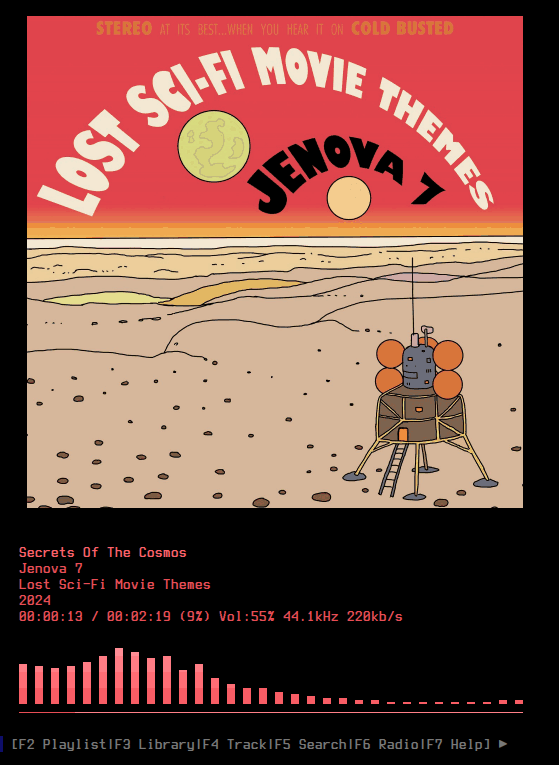
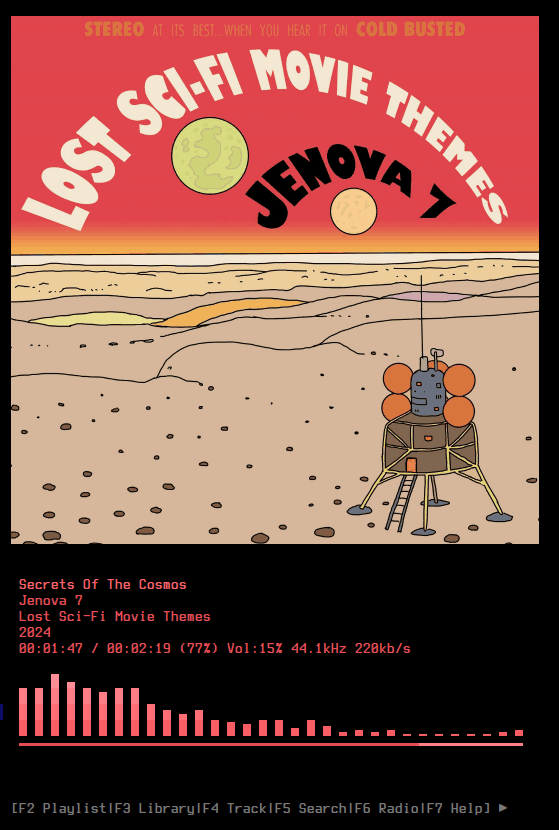
thick line the default

diff --git a/src/settings.c b/src/settings.c
@@ -42,7 +42,7 @@ AppSettings constructAppSettings(KeyValuePair *pairs, int count)
         c_strcpy(settings.visualizerBrailleMode, "0", sizeof(settings.visualizerBrailleMode));
         c_strcpy(settings.tweenFactor, "0.23", sizeof(settings.tweenFactor));
         c_strcpy(settings.tweenFactorFall, "0.13", sizeof(settings.tweenFactor));
-        c_strcpy(settings.progressBarType, "1", sizeof(settings.progressBarType));
+        c_strcpy(settings.progressBarType, "2", sizeof(settings.progressBarType));
 #ifdef __APPLE__
         c_strcpy(settings.visualizerEnabled, "0", sizeof(settings.visualizerEnabled)); // Visualizer looks wonky in default terminal
         c_strcpy(settings.useConfigColors, "1", sizeof(settings.useConfigColors));     // Colors from album look wrong in default terminal
@@ -885,7 +885,8 @@ void setConfig(AppSettings *settings, UISettings *ui)
                 snprintf(settings->mouseAltScrollDownAction, sizeof(settings->mouseAltScrollDownAction), "%d", ui->mouseAltScrollDownAction);
 
         // Write the settings to the file
-        fprintf(file, "# Make sure that kew is closed before editing this file in order for changes to take effect.\n\n");
+        fprintf(file, "Configuration file for kew terminal music player.\n");
+        fprintf(file, "# Make sure that kew is not running before editing this file in order for changes to take effect.\n\n");
 
         fprintf(file, "\n[miscellaneous]\n\n");
         fprintf(file, "path=%s\n", settings->path);
